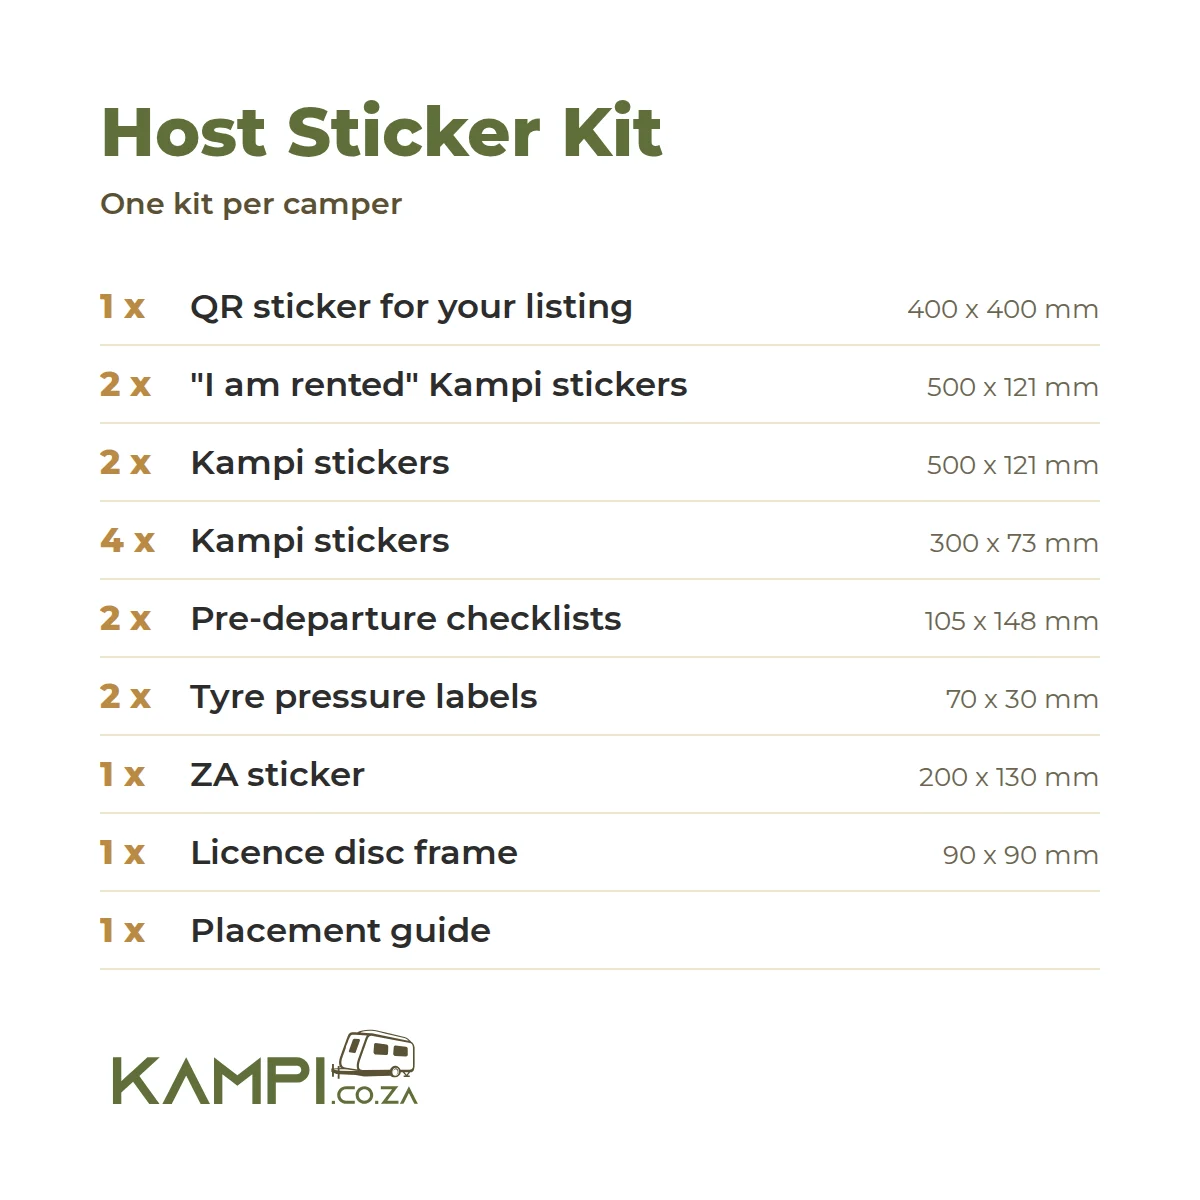
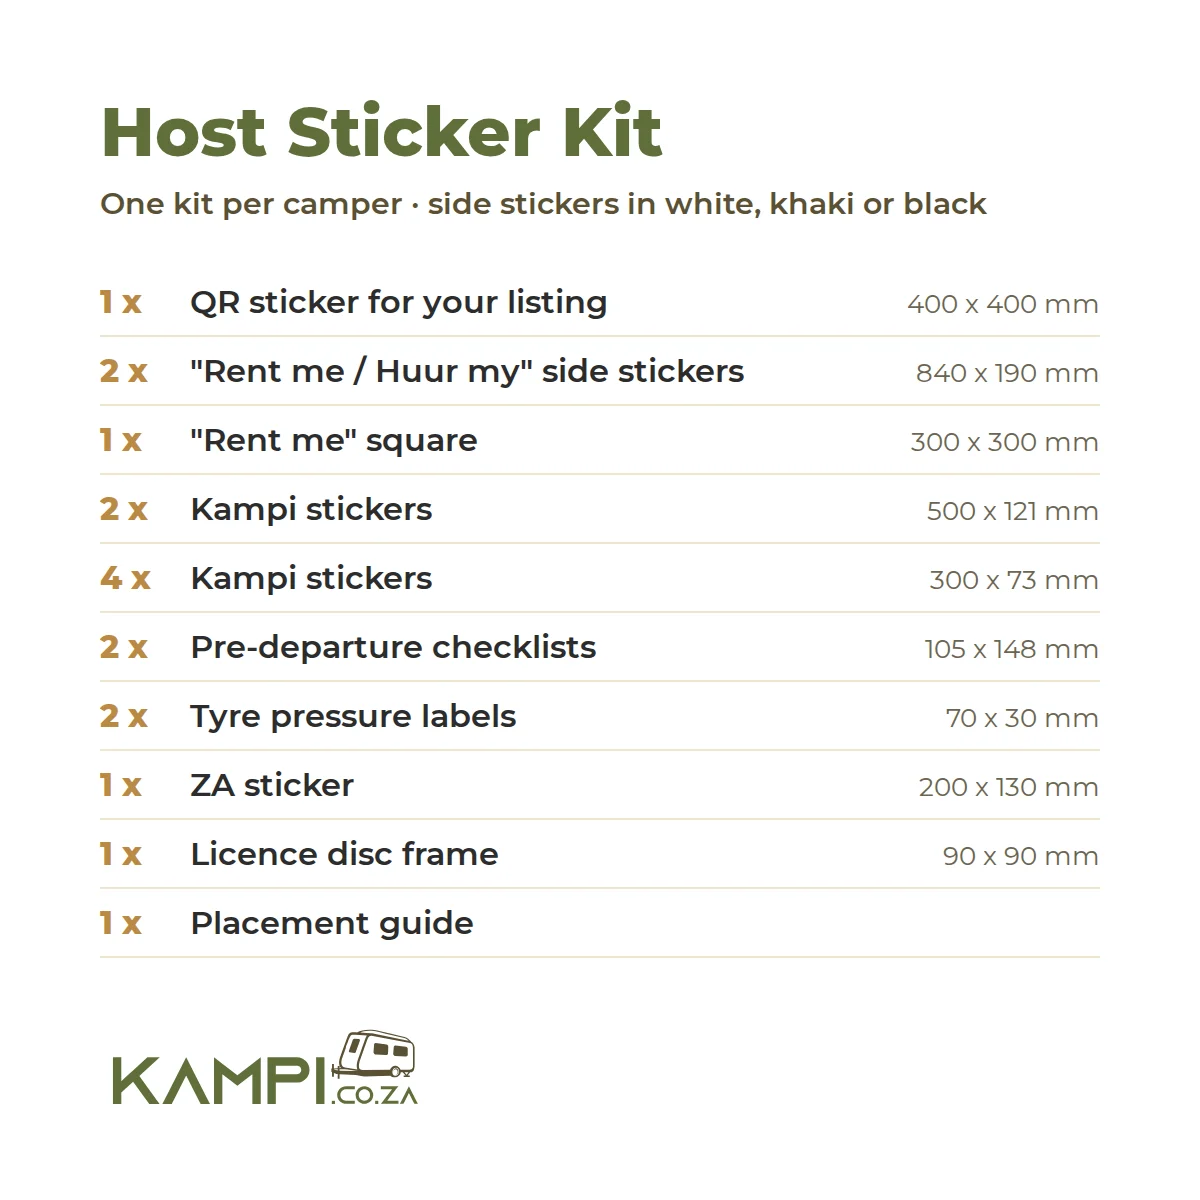
backend: host sticker kit in three vinyl colours, codes as a fixed amount across kit items
The kit gets a Sticker colour option (White, Khaki, Black) and the new side
stickers in its contents. Host codes change from 100% off with max_quantity to
a fixed max_kits x kit price across kit items: Medusa applies max_quantity per
cart line, so one kit per colour would have been free three times (probe
check 7). add-host-sticker-kit can replace a draft.

Changed region(s): [[0.0617, 0.2467, 0.925, 0.8017], [0.3392, 0.1542, 0.8325, 0.185]]

diff --git a/backend/src/scripts/add-host-sticker-kit.ts b/backend/src/scripts/add-host-sticker-kit.ts
@@ -1,12 +1,16 @@
 import type { ExecArgs } from "@medusajs/framework/types"
 import { ContainerRegistrationKeys, Modules, ProductStatus } from "@medusajs/framework/utils"
-import { createProductsWorkflow } from "@medusajs/medusa/core-flows"
+import { createProductsWorkflow, deleteProductsWorkflow } from "@medusajs/medusa/core-flows"
 
 /**
  * Adds the "Kampi Host Sticker Kit with QR" product. Idempotent: an existing product with the handle is left as it
  * is and reported.
  *
- *   [HOST_KIT_STATUS=published] npx medusa exec ./src/scripts/add-host-sticker-kit.ts
+ *   [HOST_KIT_STATUS=published] [HOST_KIT_REPLACE_DRAFT=1] npx medusa exec ./src/scripts/add-host-sticker-kit.ts
+ *
+ * HOST_KIT_REPLACE_DRAFT=1 deletes an existing DRAFT of the kit and creates it again from this file (used when the
+ * kit's contents or variants change before launch). A published kit is never deleted; host codes point at the
+ * product id, so replace the draft before importing codes, not after.
  *
  * Created as a DRAFT unless HOST_KIT_STATUS=published: every QR sticker is printed for one Kampi listing, so the
  * kit must not be orderable before a checkout can capture the listing number and the printer is lined up. Publish it
@@ -17,13 +21,21 @@ import { createProductsWorkflow } from "@medusajs/medusa/core-flows"
  */
 export const HOST_KIT_HANDLE = "kampi-host-sticker-kit-qr"
 const SKU = "KAMPI-KIT-QR"
+const COLOUR_OPTION = "Sticker colour"
+// One vinyl colour per kit for the cut stickers (side stickers, square, logos), so they show on a dark or a light camper.
+const COLOURS = [
+  { value: "White", sku: `${SKU}-WHT` },
+  { value: "Khaki", sku: `${SKU}-KHK` },
+  { value: "Black", sku: `${SKU}-BLK` },
+]
 const PRICE_ZAR = 550
 const WEIGHT_G = 350
 const CATEGORIES = ["KampiHost Essentials", "Stickers & Decals"]
 const TAGS = ["kampi.co.za", "Stickers", "Vehicle decal", "QR"]
 const CONTENTS = [
   "1 x QR sticker printed for your listing (400 x 400 mm)",
-  '2 x "I am rented" Kampi stickers (500 x 121 mm)',
+  '2 x "Rent me / Huur my" side stickers (840 x 190 mm)',
+  '1 x "Rent me" square (300 x 300 mm)',
   "2 x Kampi stickers (500 x 121 mm)",
   "4 x Kampi stickers (300 x 73 mm)",
   "2 x pre-departure checklist stickers (105 x 148 mm)",
@@ -33,7 +45,7 @@ const CONTENTS = [
   "A placement guide",
 ]
 const INTRO =
-  "One kit per camper. The 400 mm QR sticker goes on the back of your camper and sends anyone who scans it straight to your own Kampi listing."
+  "One kit per camper. The 400 mm QR sticker goes on the back of your camper and sends anyone who scans it straight to your own Kampi listing. Choose white, khaki or black for the side stickers and logos, so they show up on your camper."
 const OUTRO =
   "Each QR sticker is printed for one specific camper, so we need your Kampi listing number with the order. Courier to your door or a locker, or collect for free at Noord Karavane in Pretoria North, where we can also fit the stickers for you."
 const DESCRIPTION = `${INTRO} The kit includes: ${CONTENTS.join(", ")}. ${OUTRO}`
@@ -49,8 +61,13 @@ export default async function addHostStickerKit({ container }: ExecArgs) {
   const existing = (
     (await query.graph({ entity: "product", fields: ["id", "status", "variants.id", "variants.sku"], filters: { handle: HOST_KIT_HANDLE } })).data as any[]
   )[0]
-  if (existing) {
-    console.log("HOST_KIT_PRODUCT " + JSON.stringify({ created: false, id: existing.id, status: existing.status, variant_id: existing.variants?.[0]?.id ?? null }))
+  const replaceDraft = process.env.HOST_KIT_REPLACE_DRAFT === "1"
+  if (existing && replaceDraft) {
+    if (existing.status !== "draft") throw new Error(`add-host-sticker-kit: the kit is ${existing.status}; only a draft is ever replaced`)
+    await deleteProductsWorkflow(container).run({ input: { ids: [existing.id] } } as any)
+    logger.info(`add-host-sticker-kit: deleted draft ${existing.id} to recreate it`)
+  } else if (existing) {
+    console.log("HOST_KIT_PRODUCT " + JSON.stringify({ created: false, id: existing.id, status: existing.status, variants: (existing.variants ?? []).map((v: any) => v.sku) }))
     return
   }
 
@@ -93,23 +110,21 @@ export default async function addHostStickerKit({ container }: ExecArgs) {
             // one Kampi listing number per kit must travel with the order (the QR print file is picked by it)
             requires_kampi_listing_numbers: true,
           },
-          options: [{ title: "Default", values: ["Default"] }],
-          variants: [
-            {
-              title: "Default",
-              sku: SKU,
-              manage_inventory: false,
-              weight: WEIGHT_G,
-              options: { Default: "Default" },
-              prices: [{ amount: PRICE_ZAR, currency_code: "zar" }],
-            },
-          ],
+          options: [{ title: COLOUR_OPTION, values: COLOURS.map((c) => c.value) }],
+          variants: COLOURS.map((c) => ({
+            title: c.value,
+            sku: c.sku,
+            manage_inventory: false,
+            weight: WEIGHT_G,
+            options: { [COLOUR_OPTION]: c.value },
+            prices: [{ amount: PRICE_ZAR, currency_code: "zar" }],
+          })),
         },
       ],
     },
   } as any)
   const product = (result as any[])[0]
   console.log(
-    "HOST_KIT_PRODUCT " + JSON.stringify({ created: true, id: product.id, status: product.status, variant_id: product.variants?.[0]?.id ?? null, price_zar: PRICE_ZAR })
+    "HOST_KIT_PRODUCT " + JSON.stringify({ created: true, id: product.id, status: product.status, variants: (product.variants ?? []).map((v: any) => v.sku), price_zar: PRICE_ZAR })
   )
 }

diff --git a/backend/src/scripts/import-host-kit-codes.ts b/backend/src/scripts/import-host-kit-codes.ts
@@ -13,8 +13,12 @@ import { createCampaignsWorkflow, createPromotionsWorkflow } from "@medusajs/med
  * rows.json: [{ "code": "KAMPI-QR-7F3KQ", "max_kits": 2, "host_id": "<kampi user id>", "listing_ids": "1418 1502" }]
  * Never commit an import file: it maps codes to hosts.
  *
- * Each promotion: 100% off, items only, product = the sticker kit, at most max_kits units, usable once, in the
- * campaign `kampi-host-qr-2026` that ends at HOST_KIT_CODES_ENDS_AT.
+ * Each promotion: a fixed amount of max_kits x the kit price, spread across the sticker-kit items only, usable once,
+ * in the campaign `kampi-host-qr-2026` that ends at HOST_KIT_CODES_ENDS_AT. A fixed amount is used, not "100% off
+ * up to max_kits units": Medusa 2.22.2 applies an `each` allocation's max_quantity per cart LINE, so a 1-kit host
+ * adding one kit in each of the three colours would get three free (measured with host-kit-probe, check 7).
+ * The amount is taken from the kit's price at import time: if the kit price changes afterwards, codes already
+ * imported still give the old amount.
  *
  * Idempotent: a code that already exists (soft-deleted included) is skipped. A rejected row aborts the run before
  * any write. A write failure mid-run reports how far it got and exits non-zero; a rerun skips what was created.
@@ -58,7 +62,7 @@ export function planHostKitImport(rows: unknown, existingCodes: Set<string>): Ho
 }
 
 /** The promotion for one host. Pure. */
-export function hostKitPromotion(row: HostKitRow, productId: string, campaignId: string) {
+export function hostKitPromotion(row: HostKitRow, productId: string, campaignId: string, kitPriceZar: number) {
   return {
     code: row.code,
     type: "standard",
@@ -68,15 +72,14 @@ export function hostKitPromotion(row: HostKitRow, productId: string, campaignId:
     limit: 1,
     campaign_id: campaignId,
     application_method: {
-      type: "percentage",
+      type: "fixed",
       target_type: "items",
-      allocation: "each",
-      value: 100,
-      max_quantity: row.max_kits,
+      allocation: "across",
+      value: row.max_kits * kitPriceZar,
       currency_code: "zar",
       target_rules: [{ attribute: "items.product.id", operator: "in", values: [productId] }],
     },
-    metadata: { program: HOST_KIT_PROGRAM, source: "import", host_id: row.host_id, listing_ids: row.listing_ids, max_kits: row.max_kits },
+    metadata: { program: HOST_KIT_PROGRAM, source: "import", host_id: row.host_id, listing_ids: row.listing_ids, max_kits: row.max_kits, kit_price_zar: kitPriceZar },
   }
 }
 
@@ -105,13 +108,22 @@ export default async function importHostKitCodes({ container }: ExecArgs) {
     throw new Error(`import-host-kit-codes: ${plan.rejected.length} rejected row(s), nothing written`)
   }
 
-  const product = ((await query.graph({ entity: "product", fields: ["id", "status"], filters: { handle: HOST_KIT_HANDLE } })).data as any[])[0]
+  const product = (
+    (await query.graph({ entity: "product", fields: ["id", "status", "variants.sku", "variants.prices.amount", "variants.prices.currency_code"], filters: { handle: HOST_KIT_HANDLE } }))
+      .data as any[]
+  )[0]
   if (!product) throw new Error(`import-host-kit-codes: product ${HOST_KIT_HANDLE} not found; run add-host-sticker-kit first. Nothing written.`)
+  // Every colour must cost the same, or "max_kits x price" is not one number.
+  const zarPrices: number[] = (product.variants ?? []).flatMap((v: any) => (v.prices ?? []).filter((p: any) => p.currency_code === "zar").map((p: any) => Number(p.amount)))
+  const kitPriceZar = zarPrices[0]
+  if (!zarPrices.length || !(kitPriceZar > 0) || zarPrices.some((p) => p !== kitPriceZar))
+    throw new Error(`import-host-kit-codes: the kit's variants must all have the same ZAR price, found ${JSON.stringify(zarPrices)}. Nothing written.`)
 
   const summary = {
     dry_run: dryRun,
     product_id: product.id,
     product_status: product.status,
+    kit_price_zar: kitPriceZar,
     campaign: HOST_KIT_CAMPAIGN,
     ends_at: endsAt.toISOString(),
     planned: plan.create.length,
@@ -140,7 +152,7 @@ export default async function importHostKitCodes({ container }: ExecArgs) {
   try {
     for (let i = 0; i < plan.create.length; i += BATCH) {
       const batch = plan.create.slice(i, i + BATCH)
-      await createPromotionsWorkflow(container).run({ input: { promotionsData: batch.map((r) => hostKitPromotion(r, product.id, campaign.id)) } } as any)
+      await createPromotionsWorkflow(container).run({ input: { promotionsData: batch.map((r) => hostKitPromotion(r, product.id, campaign.id, kitPriceZar)) } } as any)
       summary.created += batch.length
     }
   } catch (e: any) {

diff --git a/backend/src/scripts/host-kit-probe.ts b/backend/src/scripts/host-kit-probe.ts
@@ -68,13 +68,15 @@ export default async function hostKitProbe({ container }: ExecArgs) {
   if (!region || !channel || !kit || !other) throw new Error("host-kit-probe: seed, add-host-sticker-kit and import-host-kit-codes must run first")
   if (kit.status !== "published") await updateProductsWorkflow(container).run({ input: { selector: { id: kit.id }, update: { status: "published" } } } as any)
   const kitVariant: string = kit.variants[0].id
+  const kitVariantB: string | undefined = kit.variants[1]?.id
   const otherVariant: string = other.variants[0].id
 
   const opts = (await fulfillment.listShippingOptions({}, { select: ["id", "data"] })) as any[]
   const options: Record<string, string> = {}
   for (const o of opts) if (o.data?.id) options[o.data.id] = o.id
   const collect = options["workshop-collect"]
-  const courierKey = Object.keys(options).find((k) => k !== "workshop-collect")
+  // door courier first: the Pudo option refuses parcels over pudo_max_weight_g, which is not what this probe tests
+  const courierKey = options["tcg-door"] ? "tcg-door" : Object.keys(options).find((k) => k !== "workshop-collect" && !/pudo/i.test(k))
   if (!collect || !courierKey) throw new Error(`host-kit-probe: need workshop-collect and one courier option, found ${Object.keys(options).join(", ")}`)
 
   const promos = (await promotionModule.listPromotions({}, { select: ["code", "metadata", "used"], take: 1000 })) as any[]
@@ -146,6 +148,17 @@ export default async function hostKitProbe({ container }: ExecArgs) {
   const e6 = await apply(c6, twoB)
   const v6 = await view(c6)
   check("6_two_kit_code_frees_two_of_three", !e6 && v6.kit_total === v6.kit_full / 3, { error: e6, ...v6 })
+
+  // 7. two colours in one cart count as kits of the same product: a 2-kit code frees both, a 1-kit code frees one
+  if (kitVariantB) {
+    const c7 = await newCart([{ variant_id: kitVariant, quantity: 1 }, { variant_id: kitVariantB, quantity: 1 }])
+    const e7 = await apply(c7, twoB)
+    const v7 = await view(c7)
+    const c7b = await newCart([{ variant_id: kitVariant, quantity: 1 }, { variant_id: kitVariantB, quantity: 1 }])
+    const e7b = await apply(c7b, single)
+    const v7b = await view(c7b)
+    check("7_mixed_colours_share_the_kit_allowance", !e7 && !e7b && v7.kit_total === 0 && v7b.kit_total === v7b.kit_full / 2, { two_kit_code: v7, one_kit_code: v7b, errors: [e7, e7b] })
+  }
 
   // 3. kits only + collection: total R0, and the order can be placed with EFT
   const c3 = await newCart([{ variant_id: kitVariant, quantity: 2 }])

diff --git a/backend/src/scripts/__tests__/import-host-kit-codes.unit.spec.ts b/backend/src/scripts/__tests__/import-host-kit-codes.unit.spec.ts
@@ -38,10 +38,12 @@ describe("planHostKitImport", () => {
 })
 
 describe("hostKitPromotion", () => {
-  const promo = hostKitPromotion({ code: "KAMPI-QR-7F3KQ", max_kits: 3, host_id: "host-1", listing_ids: "1 2 3" }, "prod_kit", "camp_1")
+  const promo = hostKitPromotion({ code: "KAMPI-QR-7F3KQ", max_kits: 3, host_id: "host-1", listing_ids: "1 2 3" }, "prod_kit", "camp_1", 550)
 
-  it("takes the kit to zero for at most max_kits units", () => {
-    expect(promo.application_method).toMatchObject({ type: "percentage", value: 100, allocation: "each", max_quantity: 3 })
+  it("is worth max_kits kits in total, however the kits are split across cart lines", () => {
+    // not `each` + max_quantity: Medusa applies that per line, so three colours would give three free kits each
+    expect(promo.application_method).toMatchObject({ type: "fixed", value: 1650, allocation: "across", currency_code: "zar" })
+    expect(promo.application_method).not.toHaveProperty("max_quantity")
   })
 
   it("targets items of the kit product only, never delivery or the whole order", () => {
@@ -54,6 +56,6 @@ describe("hostKitPromotion", () => {
   })
 
   it("keeps the host and listings but no email", () => {
-    expect(promo.metadata).toEqual({ program: "kampi-host-qr", source: "import", host_id: "host-1", listing_ids: "1 2 3", max_kits: 3 })
+    expect(promo.metadata).toEqual({ program: "kampi-host-qr", source: "import", host_id: "host-1", listing_ids: "1 2 3", max_kits: 3, kit_price_zar: 550 })
   })
 })
